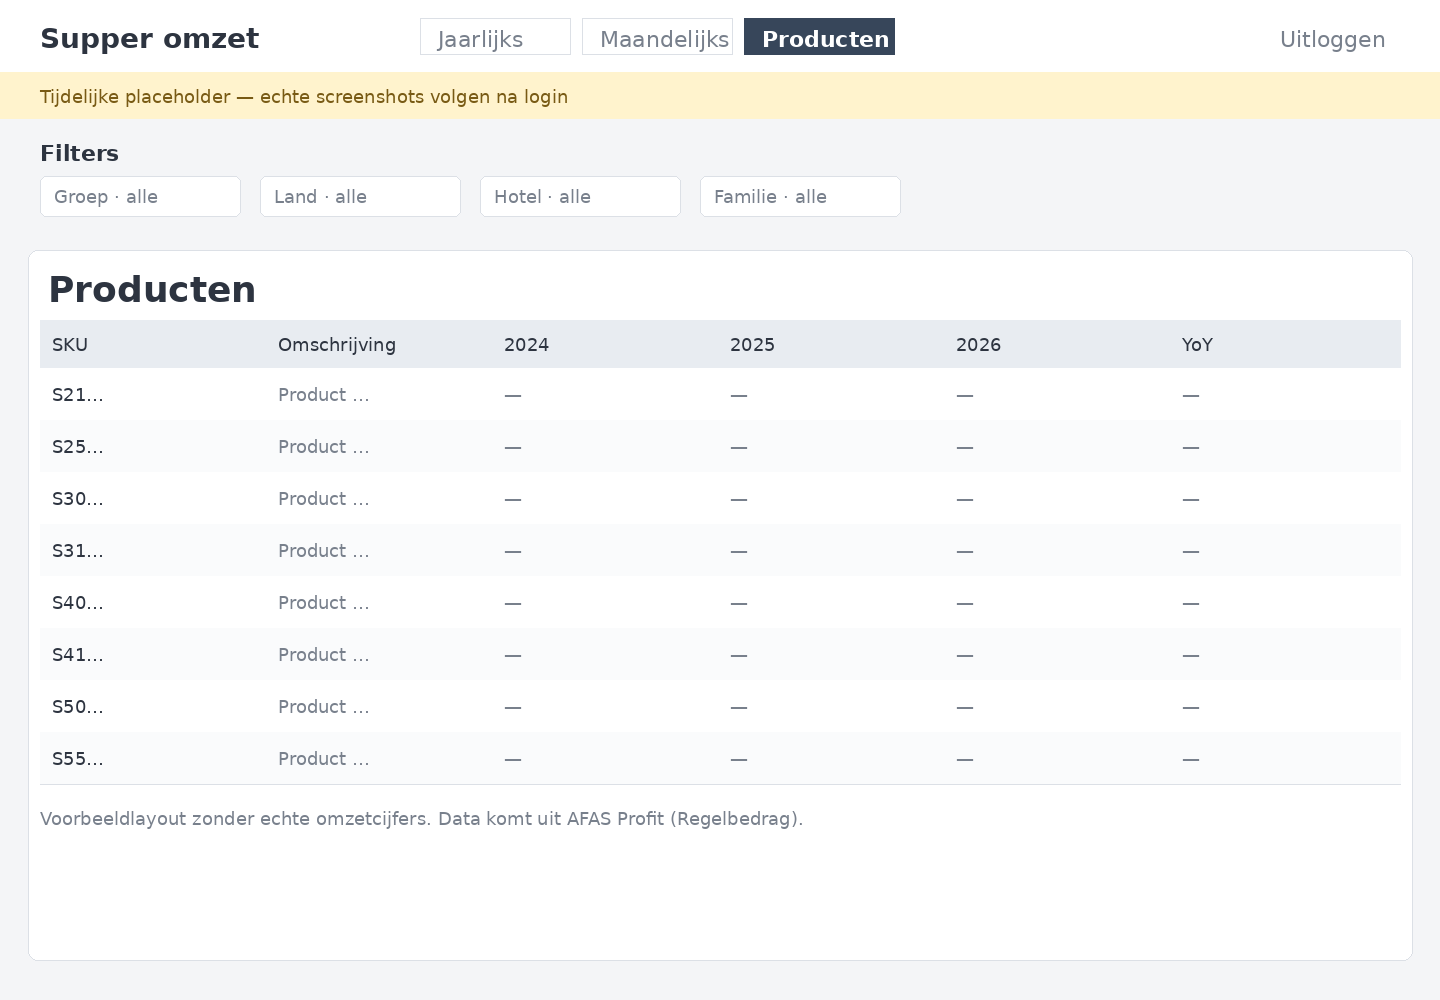
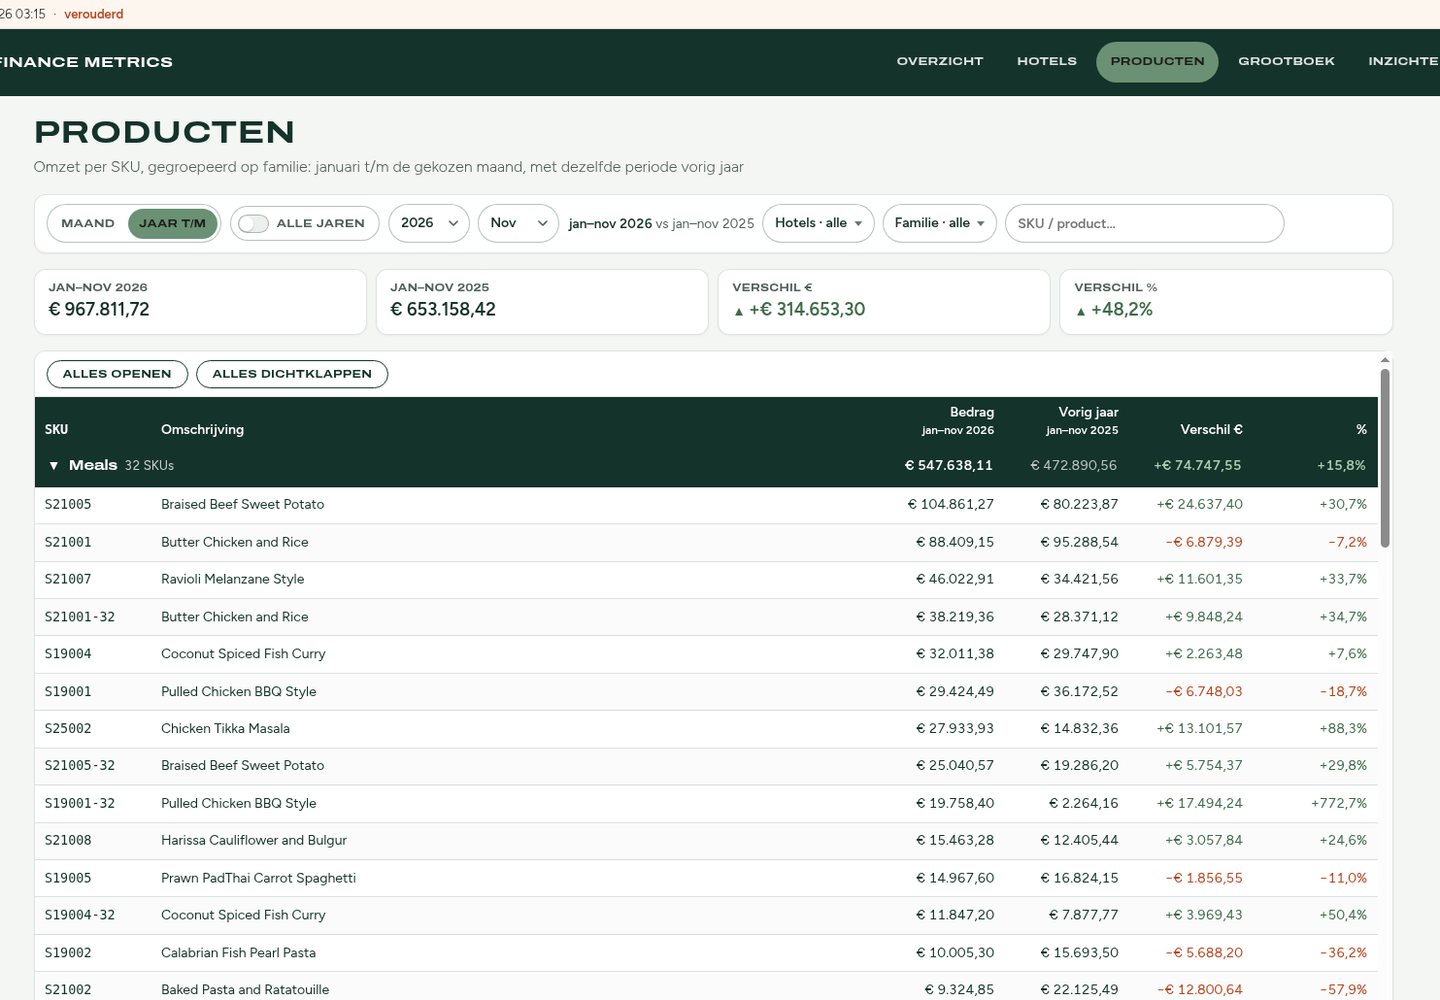
Replace Supper omzetdashboard placeholders with live screenshots
Overwrite carousel and flat assets with real Hotels / Grootboek /
Producten UI from dashboard.supperservices.com; refresh image alts.

diff --git a/projecten/supper-dashboard/index.html b/projecten/supper-dashboard/index.html
@@ -20,12 +20,12 @@
     <meta property="og:image:type" content="image/png">
     <meta property="og:image:width" content="1440">
     <meta property="og:image:height" content="1000">
-    <meta property="og:image:alt" content="Placeholder van het Supper omzetdashboard, scherm Jaarlijks met filters">
+    <meta property="og:image:alt" content="Supper omzetdashboard, scherm Hotels met omzet per hotel">
     <meta name="twitter:card" content="summary_large_image">
     <meta name="twitter:title" content="AFAS-omzetdashboard voor Supper | JP Web Creation">
     <meta name="twitter:description" content="Maatwerk omzetdashboard op AFAS-data voor Supper Services: actuele omzetcijfers zonder Excel-exports. Bekijk hoe Joris dashboard en koppeling bouwde.">
     <meta name="twitter:image" content="https://jpwebcreation.nl/assets/projects/supper-dashboard-page-1.png">
-    <meta name="twitter:image:alt" content="Placeholder van het Supper omzetdashboard, scherm Jaarlijks met filters">
+    <meta name="twitter:image:alt" content="Supper omzetdashboard, scherm Hotels met omzet per hotel">
     <script type="application/ld+json">
       {
         "@context": "https://schema.org",
@@ -54,7 +54,7 @@
             "contentUrl": "https://jpwebcreation.nl/assets/projects/supper-dashboard-page-1.png",
             "width": 1440,
             "height": 1000,
-            "caption": "Supper omzetdashboard — scherm Jaarlijks (placeholder)"
+            "caption": "Supper omzetdashboard — scherm Hotels"
           },
           {
             "@type": "BreadcrumbList",
@@ -135,21 +135,21 @@
             <figure class="project-screen-panel" style="--i: 0">
               <picture>
                 <source srcset="../../assets/projects/supper-dashboard-page-1.webp" type="image/webp">
-                <img src="../../assets/projects/supper-dashboard-page-1.png" alt="Placeholder van Supper omzetdashboard, scherm Jaarlijks met hotelfilters" width="1440" height="1000" decoding="async" loading="eager">
+                <img src="../../assets/projects/supper-dashboard-page-1.png" alt="Screenshot van Supper omzetdashboard, scherm Hotels met omzet per hotel" width="1440" height="1000" decoding="async" loading="eager">
               </picture>
-              <figcaption>Jaarlijks</figcaption>
+              <figcaption>Hotels</figcaption>
             </figure>
             <figure class="project-screen-panel" style="--i: 1">
               <picture>
                 <source srcset="../../assets/projects/supper-dashboard-page-2.webp" type="image/webp">
-                <img src="../../assets/projects/supper-dashboard-page-2.png" alt="Placeholder van Supper omzetdashboard, scherm Maandelijks op grootboek" width="1440" height="1000" decoding="async" loading="eager">
+                <img src="../../assets/projects/supper-dashboard-page-2.png" alt="Screenshot van Supper omzetdashboard, scherm Grootboek met omzet per GL" width="1440" height="1000" decoding="async" loading="eager">
               </picture>
-              <figcaption>Maandelijks</figcaption>
+              <figcaption>Grootboek</figcaption>
             </figure>
             <figure class="project-screen-panel" style="--i: 2">
               <picture>
                 <source srcset="../../assets/projects/supper-dashboard-page-3.webp" type="image/webp">
-                <img src="../../assets/projects/supper-dashboard-page-3.png" alt="Placeholder van Supper omzetdashboard, scherm Producten op SKU" width="1440" height="1000" decoding="async" loading="eager">
+                <img src="../../assets/projects/supper-dashboard-page-3.png" alt="Screenshot van Supper omzetdashboard, scherm Producten met omzet per SKU" width="1440" height="1000" decoding="async" loading="eager">
               </picture>
               <figcaption>Producten</figcaption>
             </figure>
@@ -178,9 +178,8 @@
             <p class="eyebrow">Resultaat</p>
             <h3>AFAS-cijfers in één webdashboard</h3>
             <p>
-              De drie Excel-views staan nu als webschermen met deelbare filter-URL’s. Screenshots
-              op deze pagina zijn tijdelijke placeholders; echte logged-in beelden volgen zodra
-              inloggegevens beschikbaar zijn.
+              De Excel-views staan nu als webschermen Hotels, Grootboek en Producten, met
+              deelbare filter-URL’s en omzet uit AFAS Profit-factuurregels.
             </p>
           </div>
           <ul>

diff --git a/index.html b/index.html
@@ -425,7 +425,7 @@
             <div class="work-shot">
               <picture>
                 <source srcset="assets/projects/supper-dashboard-flat-480.webp 480w, assets/projects/supper-dashboard-flat-720.webp 720w, assets/projects/supper-dashboard-flat-1080.webp 1080w, assets/projects/supper-dashboard-flat.webp 1440w" sizes="(max-width: 900px) calc(100vw - 40px), (max-width: 1100px) 50vw, 720px" type="image/webp">
-                <img src="assets/projects/supper-dashboard-flat.jpg" alt="Placeholder van Supper omzetdashboard, scherm Jaarlijks" width="1440" height="1000" decoding="async" loading="lazy">
+                <img src="assets/projects/supper-dashboard-flat.jpg" alt="Screenshot van Supper omzetdashboard, scherm Hotels" width="1440" height="1000" decoding="async" loading="lazy">
               </picture>
             </div>
             <div class="work-copy">

diff --git a/AGENTS.md b/AGENTS.md
@@ -58,7 +58,6 @@ should have at least three flat page screenshots in `assets/projects/`:
 - `wildfloweroffice-page-1.png`, `wildfloweroffice-page-2.png`, `wildfloweroffice-page-3.png`
 - `gratis-planten-page-1.png`, `gratis-planten-page-2.png`, `gratis-planten-page-3.png`
 - `supper-dashboard-page-1.png`, `supper-dashboard-page-2.png`, `supper-dashboard-page-3.png`
-  (placeholders until logged-in screenshots are available)
 
 Mike's Pianoshow also keeps `mikes-piano-planner.png` as an extra app panel,
 because the app is an important add-on but the website remains the base project.
